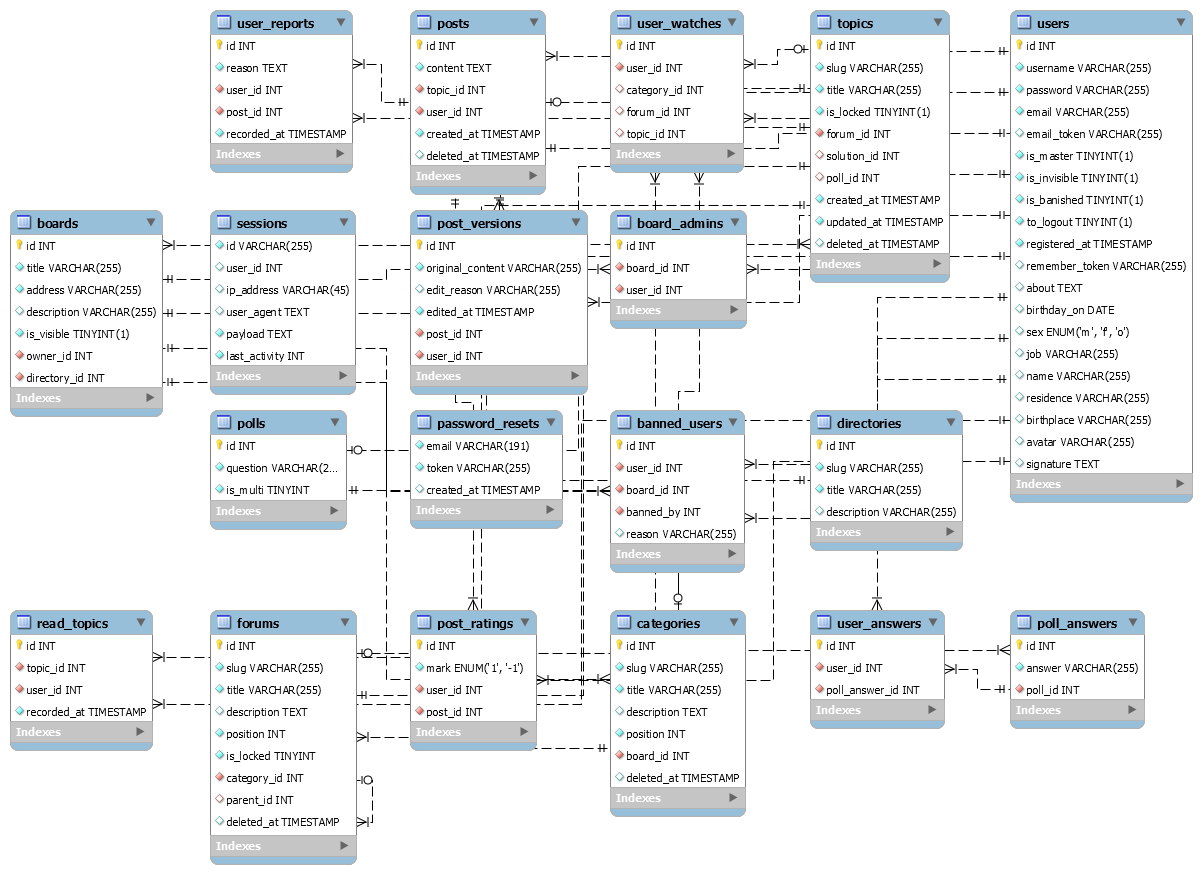
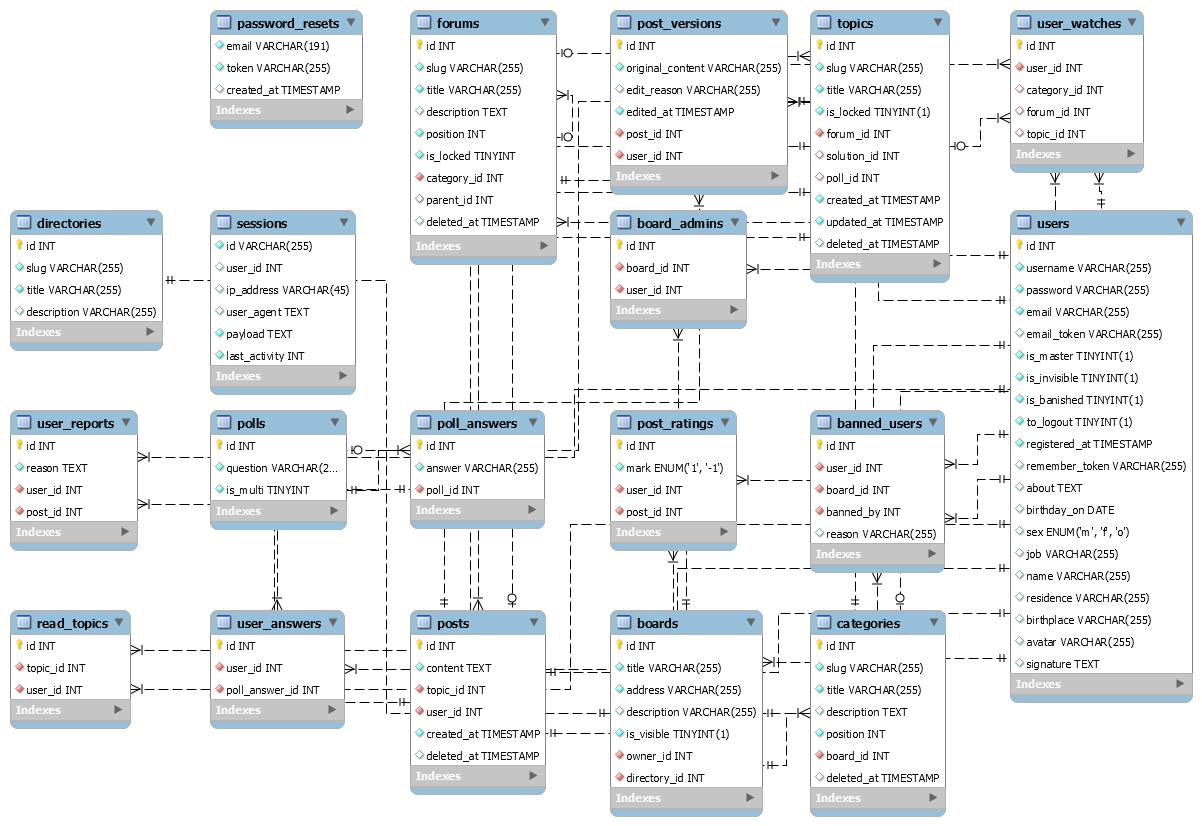
Ne treba mi 'recorded_at'

diff --git a/database/migrations/2018_04_03_115308_create_read_topics_table.php b/database/migrations/2018_04_03_115308_create_read_topics_table.php
@@ -17,7 +17,6 @@ class CreateReadTopicsTable extends Migration
             $table->increments('id');
             $table->integer('topic_id');
             $table->integer('user_id');
-            $table->timestamp('recorded_at')->useCurrent();
         });
     }
 
@@ -28,6 +27,6 @@ class CreateReadTopicsTable extends Migration
      */
     public function down()
     {
-        Schema::dropIfExists('track_topics');
+        Schema::dropIfExists('read_topics');
     }
 }

diff --git a/database/migrations/2018_04_03_120600_create_user_reports_table.php b/database/migrations/2018_04_03_120600_create_user_reports_table.php
@@ -18,7 +18,6 @@ class CreateUserReportsTable extends Migration
             $table->text('reason');
             $table->integer('user_id');
             $table->integer('post_id');
-            $table->timestamp('recorded_at')->useCurrent();
         });
     }
 
